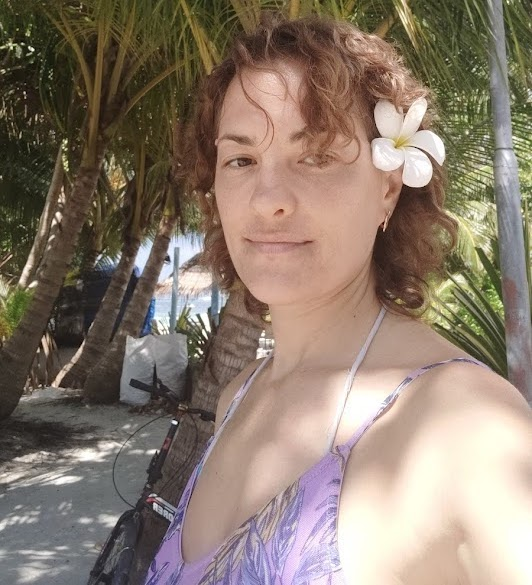
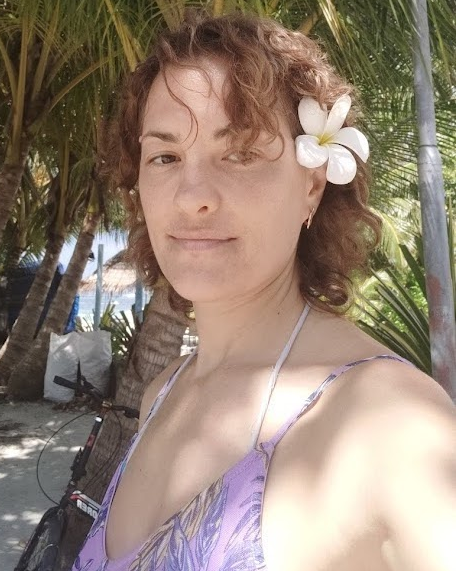
fix: after pixselP

diff --git a/src/components/Main/AboutMe/AboutMe.css b/src/components/Main/AboutMe/AboutMe.css
@@ -76,13 +76,13 @@
 
 .me__private-image {
   width: 270px;
-  height: 307px;
+  height: 327px;
   border-radius: 8px;
 }
 
 @media screen and (max-width: 1000px) {
   .me {
-    padding: 90px 50px 0;
+    padding: 88px 50px 0;
   }
 
   .me__private-name {
@@ -104,11 +104,12 @@
   }
 
   .me__private-image {
-    width: 255px
+    width: 255px;
+    height: 307px;
   }
 }
 
-@media screen and (max-width: 600px) {
+@media screen and (max-width: 500px) {
   .me {
     padding: 70px 14px 0;
   }
@@ -117,7 +118,7 @@
     font-size: 18px;
     line-height: normal;
     letter-spacing: -0.72px;
-    padding-bottom: 28px;
+    padding-bottom: 30px;
   }
 
   .me__private-container {

diff --git a/src/components/Navigation/BurgerMenu/BurgerMenu.css b/src/components/Navigation/BurgerMenu/BurgerMenu.css
@@ -70,7 +70,18 @@
   padding: 24px 90px 90px;
 }
 
-@media screen and (max-width: 320px) {
+@media screen and (max-width: 770px) {
+  .burger-menu__content {
+    width: 520px;
+    padding: 0;
+  }
+
+  .burger-menu__list {
+    margin-top: 160px;
+  }
+}
+
+@media screen and (max-width: 500px) {
   .burger-menu__content {
     width: 100%;
     padding: 0;
@@ -84,6 +95,7 @@
 
   .burger-menu__list {
     gap: 24px;
+    margin-top: 135px;
   }
 
   .active {
@@ -91,6 +103,6 @@
   }
 
   .burger-menu__btn-container {
-    margin-bottom: 95px;
+    margin-bottom: 46px;
   }
 }

diff --git a/src/components/Main/Techs/Techs.css b/src/components/Main/Techs/Techs.css
@@ -87,7 +87,7 @@
 
 @media screen and (max-width: 1000px) {
   .techs {
-    padding: 90px 50px;
+    padding: 93px 50px;
   }
 
   .techs__title {
@@ -111,11 +111,11 @@
     font-size: 12px;
     line-height: 18px;
     letter-spacing: -0.48px;
-    margin-top: 24px;
+    margin-top: 22px;
   }
 }
 
-@media screen and (max-width: 770px) {
+@media screen and (max-width: 767px) {
   .techs {
     padding: 70px 18px;
   }

diff --git a/src/components/Main/Portfolio/Portfolio.css b/src/components/Main/Portfolio/Portfolio.css
@@ -2,7 +2,7 @@
   display: flex;
   flex-flow: column;
   background: #ffffff;
-  padding: 111px 70px 183px;
+  padding: 103px 70px 183px;
 }
 
 .portfolio__title {
@@ -57,7 +57,7 @@
 
 @media screen and (max-width: 1000px) {
   .portfolio {
-    padding: 70px 50px 148px;
+    padding: 93px 50px 148px;
   }
 
   .item__text {

diff --git a/src/components/Main/AboutProject/AboutProject.css b/src/components/Main/AboutProject/AboutProject.css
@@ -150,7 +150,7 @@
   .about__list-title {
     font-size: 18px;
     letter-spacing: -0.72px;
-    margin-bottom: 16px;
+    margin-bottom: 18px;
   }
 
   .about__list-text {

diff --git a/src/components/Login/Signin.css b/src/components/Login/Signin.css
@@ -97,6 +97,7 @@
 .signin__form-link {
   color: #3456f3;
   text-align: center;
+  margin: 0;
   font-family: Inter, sans-serif;
   font-size: 14px;
   font-style: normal;

diff --git a/src/components/Register/Signup.css b/src/components/Register/Signup.css
@@ -97,6 +97,7 @@
 .signup__form-link {
   color: #3456f3;
   text-align: center;
+  margin: 0;
   font-family: Inter, sans-serif;
   font-size: 14px;
   font-style: normal;

diff --git a/src/components/Movies/MoviesCard/MoviesCard.css b/src/components/Movies/MoviesCard/MoviesCard.css
@@ -10,7 +10,7 @@
 }
 
 .movies__description {
-  margin-top: 6px;
+  margin-top: 5px;
 }
 
 .movies__description-container {

diff --git a/src/components/Layouts/LoginLayout/LoginLayout.css b/src/components/Layouts/LoginLayout/LoginLayout.css
@@ -3,5 +3,5 @@
   flex-flow: column;
   margin: 0 auto;
   max-width: 396px;
-  padding: 0 24px;
+  padding: 0 30px;
 }

diff --git a/src/components/Movies/MoviesCardList/MoviesCardList.css b/src/components/Movies/MoviesCardList/MoviesCardList.css
@@ -51,6 +51,6 @@
   } 
   .movies-page__more {
     width: 240px;
-    margin-top: 75px;
+    margin-top: 64px;
   }
 }
